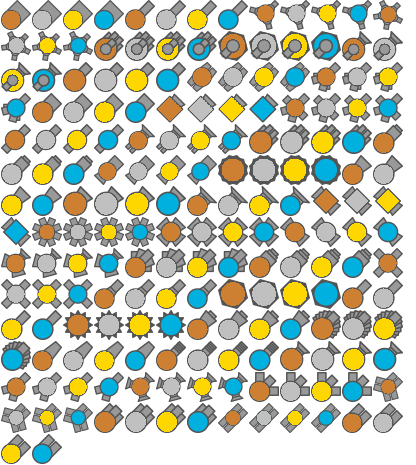
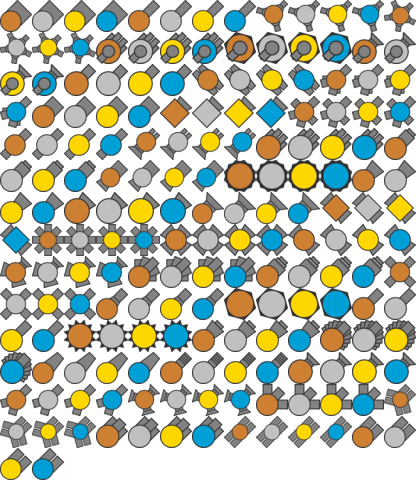
updated tanks.png

diff --git a/sunknightsapp/static/sunknightsapp/css/tanks.css b/sunknightsapp/static/sunknightsapp/css/tanks.css
@@ -39,187 +39,187 @@
 .twin-tier1, .twin-tier2, .twin-tier3, .twin
 { display: inline-block; background: url('../image/tanks.png') no-repeat; overflow: hidden; text-indent: -9999px; text-align: left; }
 
-.annihilator-tier1 { background-position: -1px -0px; width: 30px; height: 30px; }
-.annihilator-tier2 { background-position: -32px -0px; width: 30px; height: 30px; }
-.annihilator-tier3 { background-position: -63px -0px; width: 30px; height: 30px; }
-.annihilator { background-position: -94px -0px; width: 30px; height: 30px; }
-.assassin-tier1 { background-position: -125px -0px; width: 30px; height: 30px; }
-.assassin-tier2 { background-position: -156px -0px; width: 30px; height: 30px; }
-.assassin-tier3 { background-position: -187px -0px; width: 30px; height: 30px; }
-.assassin { background-position: -218px -0px; width: 30px; height: 30px; }
-.auto-3-tier1 { background-position: -249px -0px; width: 30px; height: 30px; }
-.auto-3-tier2 { background-position: -280px -0px; width: 30px; height: 30px; }
-.auto-3-tier3 { background-position: -311px -0px; width: 30px; height: 30px; }
-.auto-3 { background-position: -342px -0px; width: 30px; height: 30px; }
-.auto-5-tier1 { background-position: -373px -0px; width: 30px; height: 30px; }
-.auto-5-tier2 { background-position: -1px -31px; width: 30px; height: 30px; }
-.auto-5-tier3 { background-position: -32px -31px; width: 30px; height: 30px; }
-.auto-5 { background-position: -63px -31px; width: 30px; height: 30px; }
-.auto-gunner-tier1 { background-position: -94px -31px; width: 30px; height: 30px; }
-.auto-gunner-tier2 { background-position: -125px -31px; width: 30px; height: 30px; }
-.auto-gunner-tier3 { background-position: -156px -31px; width: 30px; height: 30px; }
-.auto-gunner { background-position: -187px -31px; width: 30px; height: 30px; }
-.auto-smasher-tier1 { background-position: -218px -31px; width: 30px; height: 30px; }
-.auto-smasher-tier2 { background-position: -249px -31px; width: 30px; height: 30px; }
-.auto-smasher-tier3 { background-position: -280px -31px; width: 30px; height: 30px; }
-.auto-smasher { background-position: -311px -31px; width: 30px; height: 30px; }
-.auto-trapper-tier1 { background-position: -342px -31px; width: 30px; height: 30px; }
-.auto-trapper-tier2 { background-position: -373px -31px; width: 30px; height: 30px; }
-.auto-trapper-tier3 { background-position: -1px -62px; width: 30px; height: 30px; }
-.auto-trapper { background-position: -32px -62px; width: 30px; height: 30px; }
-.basic-tank-tier1 { background-position: -63px -62px; width: 30px; height: 30px; }
-.basic-tank-tier2 { background-position: -94px -62px; width: 30px; height: 30px; }
-.basic-tank-tier3 { background-position: -125px -62px; width: 30px; height: 30px; }
-.basic-tank { background-position: -156px -62px; width: 30px; height: 30px; }
-.battleship-tier1 { background-position: -187px -62px; width: 30px; height: 30px; }
-.battleship-tier2 { background-position: -218px -62px; width: 30px; height: 30px; }
-.battleship-tier3 { background-position: -249px -62px; width: 30px; height: 30px; }
-.battleship { background-position: -280px -62px; width: 30px; height: 30px; }
-.booster-tier1 { background-position: -311px -62px; width: 30px; height: 30px; }
-.booster-tier2 { background-position: -342px -62px; width: 30px; height: 30px; }
-.booster-tier3 { background-position: -373px -62px; width: 30px; height: 30px; }
-.booster { background-position: -1px -93px; width: 30px; height: 30px; }
-.destroyer-tier1 { background-position: -32px -93px; width: 30px; height: 30px; }
-.destroyer-tier2 { background-position: -63px -93px; width: 30px; height: 30px; }
-.destroyer-tier3 { background-position: -94px -93px; width: 30px; height: 30px; }
-.destroyer { background-position: -125px -93px; width: 30px; height: 30px; }
-.factory-tier1 { background-position: -156px -93px; width: 30px; height: 30px; }
-.factory-tier2 { background-position: -187px -93px; width: 30px; height: 30px; }
-.factory-tier3 { background-position: -218px -93px; width: 30px; height: 30px; }
-.factory { background-position: -249px -93px; width: 30px; height: 30px; }
-.fighter-tier1 { background-position: -280px -93px; width: 30px; height: 30px; }
-.fighter-tier2 { background-position: -311px -93px; width: 30px; height: 30px; }
-.fighter-tier3 { background-position: -342px -93px; width: 30px; height: 30px; }
-.fighter { background-position: -373px -93px; width: 30px; height: 30px; }
-.flank-guard-tier1 { background-position: -1px -124px; width: 30px; height: 30px; }
-.flank-guard-tier2 { background-position: -32px -124px; width: 30px; height: 30px; }
-.flank-guard-tier3 { background-position: -63px -124px; width: 30px; height: 30px; }
-.flank-guard { background-position: -94px -124px; width: 30px; height: 30px; }
-.gunner-trapper-tier1 { background-position: -125px -124px; width: 30px; height: 30px; }
-.gunner-trapper-tier2 { background-position: -156px -124px; width: 30px; height: 30px; }
-.gunner-trapper-tier3 { background-position: -187px -124px; width: 30px; height: 30px; }
-.gunner-trapper { background-position: -218px -124px; width: 30px; height: 30px; }
-.gunner-tier1 { background-position: -249px -124px; width: 30px; height: 30px; }
-.gunner-tier2 { background-position: -280px -124px; width: 30px; height: 30px; }
-.gunner-tier3 { background-position: -311px -124px; width: 30px; height: 30px; }
-.gunner { background-position: -342px -124px; width: 30px; height: 30px; }
-.hunter-tier1 { background-position: -373px -124px; width: 30px; height: 30px; }
-.hunter-tier2 { background-position: -1px -155px; width: 30px; height: 30px; }
-.hunter-tier3 { background-position: -32px -155px; width: 30px; height: 30px; }
-.hunter { background-position: -63px -155px; width: 30px; height: 30px; }
-.hybrid-tier1 { background-position: -94px -155px; width: 30px; height: 30px; }
-.hybrid-tier2 { background-position: -125px -155px; width: 30px; height: 30px; }
-.hybrid-tier3 { background-position: -156px -155px; width: 30px; height: 30px; }
-.hybrid { background-position: -187px -155px; width: 30px; height: 30px; }
-.landmine-tier1 { background-position: -218px -155px; width: 30px; height: 30px; }
-.landmine-tier2 { background-position: -249px -155px; width: 30px; height: 30px; }
-.landmine-tier3 { background-position: -280px -155px; width: 30px; height: 30px; }
-.landmine { background-position: -311px -155px; width: 30px; height: 30px; }
-.machine-gun-tier1 { background-position: -342px -155px; width: 30px; height: 30px; }
-.machine-gun-tier2 { background-position: -373px -155px; width: 30px; height: 30px; }
-.machine-gun-tier3 { background-position: -1px -186px; width: 30px; height: 30px; }
-.machine-gun { background-position: -32px -186px; width: 30px; height: 30px; }
-.manager-tier1 { background-position: -63px -186px; width: 30px; height: 30px; }
-.manager-tier2 { background-position: -94px -186px; width: 30px; height: 30px; }
-.manager-tier3 { background-position: -125px -186px; width: 30px; height: 30px; }
-.manager { background-position: -156px -186px; width: 30px; height: 30px; }
-.mega-trapper-tier1 { background-position: -187px -186px; width: 30px; height: 30px; }
-.mega-trapper-tier2 { background-position: -218px -186px; width: 30px; height: 30px; }
-.mega-trapper-tier3 { background-position: -249px -186px; width: 30px; height: 30px; }
-.mega-trapper { background-position: -280px -186px; width: 30px; height: 30px; }
-.necromancer-tier1 { background-position: -311px -186px; width: 30px; height: 30px; }
-.necromancer-tier2 { background-position: -342px -186px; width: 30px; height: 30px; }
-.necromancer-tier3 { background-position: -373px -186px; width: 30px; height: 30px; }
-.necromancer { background-position: -1px -217px; width: 30px; height: 30px; }
-.octo-tank-tier1 { background-position: -32px -217px; width: 30px; height: 30px; }
-.octo-tank-tier2 { background-position: -63px -217px; width: 30px; height: 30px; }
-.octo-tank-tier3 { background-position: -94px -217px; width: 30px; height: 30px; }
-.octo-tank { background-position: -125px -217px; width: 30px; height: 30px; }
-.overlord-tier1 { background-position: -156px -217px; width: 30px; height: 30px; }
-.overlord-tier2 { background-position: -187px -217px; width: 30px; height: 30px; }
-.overlord-tier3 { background-position: -218px -217px; width: 30px; height: 30px; }
-.overlord { background-position: -249px -217px; width: 30px; height: 30px; }
-.overseer-tier1 { background-position: -280px -217px; width: 30px; height: 30px; }
-.overseer-tier2 { background-position: -311px -217px; width: 30px; height: 30px; }
-.overseer-tier3 { background-position: -342px -217px; width: 30px; height: 30px; }
-.overseer { background-position: -373px -217px; width: 30px; height: 30px; }
-.overtrapper-tier1 { background-position: -1px -248px; width: 30px; height: 30px; }
-.overtrapper-tier2 { background-position: -32px -248px; width: 30px; height: 30px; }
-.overtrapper-tier3 { background-position: -63px -248px; width: 30px; height: 30px; }
-.overtrapper { background-position: -94px -248px; width: 30px; height: 30px; }
-.penta-shot-tier1 { background-position: -125px -248px; width: 30px; height: 30px; }
-.penta-shot-tier2 { background-position: -156px -248px; width: 30px; height: 30px; }
-.penta-shot-tier3 { background-position: -187px -248px; width: 30px; height: 30px; }
-.penta-shot { background-position: -218px -248px; width: 30px; height: 30px; }
-.predator-tier1 { background-position: -249px -248px; width: 30px; height: 30px; }
-.predator-tier2 { background-position: -280px -248px; width: 30px; height: 30px; }
-.predator-tier3 { background-position: -311px -248px; width: 30px; height: 30px; }
-.predator { background-position: -342px -248px; width: 30px; height: 30px; }
-.quad-tank-tier1 { background-position: -373px -248px; width: 30px; height: 30px; }
-.quad-tank-tier2 { background-position: -1px -279px; width: 30px; height: 30px; }
-.quad-tank-tier3 { background-position: -32px -279px; width: 30px; height: 30px; }
-.quad-tank { background-position: -63px -279px; width: 30px; height: 30px; }
-.ranger-tier1 { background-position: -94px -279px; width: 30px; height: 30px; }
-.ranger-tier2 { background-position: -125px -279px; width: 30px; height: 30px; }
-.ranger-tier3 { background-position: -156px -279px; width: 30px; height: 30px; }
-.ranger { background-position: -187px -279px; width: 30px; height: 30px; }
-.smasher-tier1 { background-position: -218px -279px; width: 30px; height: 30px; }
-.smasher-tier2 { background-position: -249px -279px; width: 30px; height: 30px; }
-.smasher-tier3 { background-position: -280px -279px; width: 30px; height: 30px; }
-.smasher { background-position: -311px -279px; width: 30px; height: 30px; }
-.sniper-tier1 { background-position: -342px -279px; width: 30px; height: 30px; }
-.sniper-tier2 { background-position: -373px -279px; width: 30px; height: 30px; }
-.sniper-tier3 { background-position: -1px -310px; width: 30px; height: 30px; }
-.sniper { background-position: -32px -310px; width: 30px; height: 30px; }
-.spike-tier1 { background-position: -63px -310px; width: 30px; height: 30px; }
-.spike-tier2 { background-position: -94px -310px; width: 30px; height: 30px; }
-.spike-tier3 { background-position: -125px -310px; width: 30px; height: 30px; }
-.spike { background-position: -156px -310px; width: 30px; height: 30px; }
-.sprayer-tier1 { background-position: -187px -310px; width: 30px; height: 30px; }
-.sprayer-tier2 { background-position: -218px -310px; width: 30px; height: 30px; }
-.sprayer-tier3 { background-position: -249px -310px; width: 30px; height: 30px; }
-.sprayer { background-position: -280px -310px; width: 30px; height: 30px; }
-.spread-shot-tier1 { background-position: -311px -310px; width: 30px; height: 30px; }
-.spread-shot-tier2 { background-position: -342px -310px; width: 30px; height: 30px; }
-.spread-shot-tier3 { background-position: -373px -310px; width: 30px; height: 30px; }
-.spread-shot { background-position: -1px -341px; width: 30px; height: 30px; }
-.stalker-tier1 { background-position: -32px -341px; width: 30px; height: 30px; }
-.stalker-tier2 { background-position: -63px -341px; width: 30px; height: 30px; }
-.stalker-tier3 { background-position: -94px -341px; width: 30px; height: 30px; }
-.stalker { background-position: -125px -341px; width: 30px; height: 30px; }
-.streamliner-tier1 { background-position: -156px -341px; width: 30px; height: 30px; }
-.streamliner-tier2 { background-position: -187px -341px; width: 30px; height: 30px; }
-.streamliner-tier3 { background-position: -218px -341px; width: 30px; height: 30px; }
-.streamliner { background-position: -249px -341px; width: 30px; height: 30px; }
-.trapper-tier1 { background-position: -280px -341px; width: 30px; height: 30px; }
-.trapper-tier2 { background-position: -311px -341px; width: 30px; height: 30px; }
-.trapper-tier3 { background-position: -342px -341px; width: 30px; height: 30px; }
-.trapper { background-position: -373px -341px; width: 30px; height: 30px; }
-.tri-angle-tier1 { background-position: -1px -372px; width: 30px; height: 30px; }
-.tri-angle-tier2 { background-position: -32px -372px; width: 30px; height: 30px; }
-.tri-angle-tier3 { background-position: -63px -372px; width: 30px; height: 30px; }
-.tri-angle { background-position: -94px -372px; width: 30px; height: 30px; }
-.tri-trapper-tier1 { background-position: -125px -372px; width: 30px; height: 30px; }
-.tri-trapper-tier2 { background-position: -156px -372px; width: 30px; height: 30px; }
-.tri-trapper-tier3 { background-position: -187px -372px; width: 30px; height: 30px; }
-.tri-trapper { background-position: -218px -372px; width: 30px; height: 30px; }
-.triple-shot-tier1 { background-position: -249px -372px; width: 30px; height: 30px; }
-.triple-shot-tier2 { background-position: -280px -372px; width: 30px; height: 30px; }
-.triple-shot-tier3 { background-position: -311px -372px; width: 30px; height: 30px; }
-.triple-shot { background-position: -342px -372px; width: 30px; height: 30px; }
-.triple-twin-tier1 { background-position: -373px -372px; width: 30px; height: 30px; }
-.triple-twin-tier2 { background-position: -1px -403px; width: 30px; height: 30px; }
-.triple-twin-tier3 { background-position: -32px -403px; width: 30px; height: 30px; }
-.triple-twin { background-position: -63px -403px; width: 30px; height: 30px; }
-.triplet-tier1 { background-position: -94px -403px; width: 30px; height: 30px; }
-.triplet-tier2 { background-position: -125px -403px; width: 30px; height: 30px; }
-.triplet-tier3 { background-position: -156px -403px; width: 30px; height: 30px; }
-.triplet { background-position: -187px -403px; width: 30px; height: 30px; }
-.twin-flank-tier1 { background-position: -218px -403px; width: 30px; height: 30px; }
-.twin-flank-tier2 { background-position: -249px -403px; width: 30px; height: 30px; }
-.twin-flank-tier3 { background-position: -280px -403px; width: 30px; height: 30px; }
-.twin-flank { background-position: -311px -403px; width: 30px; height: 30px; }
-.twin-tier1 { background-position: -342px -403px; width: 30px; height: 30px; }
-.twin-tier2 { background-position: -373px -403px; width: 30px; height: 30px; }
-.twin-tier3 { background-position: -1px -434px; width: 30px; height: 30px; }
-.twin { background-position: -32px -434px; width: 30px; height: 30px; }
+.annihilator-tier1 { background-position: -0px -0px; width: 32px; height: 32px; }
+.annihilator-tier2 { background-position: -32px -0px; width: 32px; height: 32px; }
+.annihilator-tier3 { background-position: -64px -0px; width: 32px; height: 32px; }
+.annihilator { background-position: -96px -0px; width: 32px; height: 32px; }
+.assassin-tier1 { background-position: -128px -0px; width: 32px; height: 32px; }
+.assassin-tier2 { background-position: -160px -0px; width: 32px; height: 32px; }
+.assassin-tier3 { background-position: -192px -0px; width: 32px; height: 32px; }
+.assassin { background-position: -224px -0px; width: 32px; height: 32px; }
+.auto-3-tier1 { background-position: -256px -0px; width: 32px; height: 32px; }
+.auto-3-tier2 { background-position: -288px -0px; width: 32px; height: 32px; }
+.auto-3-tier3 { background-position: -320px -0px; width: 32px; height: 32px; }
+.auto-3 { background-position: -352px -0px; width: 32px; height: 32px; }
+.auto-5-tier1 { background-position: -384px -0px; width: 32px; height: 32px; }
+.auto-5-tier2 { background-position: -0px -32px; width: 32px; height: 32px; }
+.auto-5-tier3 { background-position: -32px -32px; width: 32px; height: 32px; }
+.auto-5 { background-position: -64px -32px; width: 32px; height: 32px; }
+.auto-gunner-tier1 { background-position: -96px -32px; width: 32px; height: 32px; }
+.auto-gunner-tier2 { background-position: -128px -32px; width: 32px; height: 32px; }
+.auto-gunner-tier3 { background-position: -160px -32px; width: 32px; height: 32px; }
+.auto-gunner { background-position: -192px -32px; width: 32px; height: 32px; }
+.auto-smasher-tier1 { background-position: -224px -32px; width: 32px; height: 32px; }
+.auto-smasher-tier2 { background-position: -256px -32px; width: 32px; height: 32px; }
+.auto-smasher-tier3 { background-position: -288px -32px; width: 32px; height: 32px; }
+.auto-smasher { background-position: -320px -32px; width: 32px; height: 32px; }
+.auto-trapper-tier1 { background-position: -352px -32px; width: 32px; height: 32px; }
+.auto-trapper-tier2 { background-position: -384px -32px; width: 32px; height: 32px; }
+.auto-trapper-tier3 { background-position: -0px -64px; width: 32px; height: 32px; }
+.auto-trapper { background-position: -32px -64px; width: 32px; height: 32px; }
+.basic-tank-tier1 { background-position: -64px -64px; width: 32px; height: 32px; }
+.basic-tank-tier2 { background-position: -96px -64px; width: 32px; height: 32px; }
+.basic-tank-tier3 { background-position: -128px -64px; width: 32px; height: 32px; }
+.basic-tank { background-position: -160px -64px; width: 32px; height: 32px; }
+.battleship-tier1 { background-position: -192px -64px; width: 32px; height: 32px; }
+.battleship-tier2 { background-position: -224px -64px; width: 32px; height: 32px; }
+.battleship-tier3 { background-position: -256px -64px; width: 32px; height: 32px; }
+.battleship { background-position: -288px -64px; width: 32px; height: 32px; }
+.booster-tier1 { background-position: -320px -64px; width: 32px; height: 32px; }
+.booster-tier2 { background-position: -352px -64px; width: 32px; height: 32px; }
+.booster-tier3 { background-position: -384px -64px; width: 32px; height: 32px; }
+.booster { background-position: -0px -96px; width: 32px; height: 32px; }
+.destroyer-tier1 { background-position: -32px -96px; width: 32px; height: 32px; }
+.destroyer-tier2 { background-position: -64px -96px; width: 32px; height: 32px; }
+.destroyer-tier3 { background-position: -96px -96px; width: 32px; height: 32px; }
+.destroyer { background-position: -128px -96px; width: 32px; height: 32px; }
+.factory-tier1 { background-position: -160px -96px; width: 32px; height: 32px; }
+.factory-tier2 { background-position: -192px -96px; width: 32px; height: 32px; }
+.factory-tier3 { background-position: -224px -96px; width: 32px; height: 32px; }
+.factory { background-position: -256px -96px; width: 32px; height: 32px; }
+.fighter-tier1 { background-position: -288px -96px; width: 32px; height: 32px; }
+.fighter-tier2 { background-position: -320px -96px; width: 32px; height: 32px; }
+.fighter-tier3 { background-position: -352px -96px; width: 32px; height: 32px; }
+.fighter { background-position: -384px -96px; width: 32px; height: 32px; }
+.flank-guard-tier1 { background-position: -0px -128px; width: 32px; height: 32px; }
+.flank-guard-tier2 { background-position: -32px -128px; width: 32px; height: 32px; }
+.flank-guard-tier3 { background-position: -64px -128px; width: 32px; height: 32px; }
+.flank-guard { background-position: -96px -128px; width: 32px; height: 32px; }
+.gunner-trapper-tier1 { background-position: -128px -128px; width: 32px; height: 32px; }
+.gunner-trapper-tier2 { background-position: -160px -128px; width: 32px; height: 32px; }
+.gunner-trapper-tier3 { background-position: -192px -128px; width: 32px; height: 32px; }
+.gunner-trapper { background-position: -224px -128px; width: 32px; height: 32px; }
+.gunner-tier1 { background-position: -256px -128px; width: 32px; height: 32px; }
+.gunner-tier2 { background-position: -288px -128px; width: 32px; height: 32px; }
+.gunner-tier3 { background-position: -320px -128px; width: 32px; height: 32px; }
+.gunner { background-position: -352px -128px; width: 32px; height: 32px; }
+.hunter-tier1 { background-position: -384px -128px; width: 32px; height: 32px; }
+.hunter-tier2 { background-position: -0px -160px; width: 32px; height: 32px; }
+.hunter-tier3 { background-position: -32px -160px; width: 32px; height: 32px; }
+.hunter { background-position: -64px -160px; width: 32px; height: 32px; }
+.hybrid-tier1 { background-position: -96px -160px; width: 32px; height: 32px; }
+.hybrid-tier2 { background-position: -128px -160px; width: 32px; height: 32px; }
+.hybrid-tier3 { background-position: -160px -160px; width: 32px; height: 32px; }
+.hybrid { background-position: -192px -160px; width: 32px; height: 32px; }
+.landmine-tier1 { background-position: -224px -160px; width: 32px; height: 32px; }
+.landmine-tier2 { background-position: -256px -160px; width: 32px; height: 32px; }
+.landmine-tier3 { background-position: -288px -160px; width: 32px; height: 32px; }
+.landmine { background-position: -320px -160px; width: 32px; height: 32px; }
+.machine-gun-tier1 { background-position: -352px -160px; width: 32px; height: 32px; }
+.machine-gun-tier2 { background-position: -384px -160px; width: 32px; height: 32px; }
+.machine-gun-tier3 { background-position: -0px -192px; width: 32px; height: 32px; }
+.machine-gun { background-position: -32px -192px; width: 32px; height: 32px; }
+.manager-tier1 { background-position: -64px -192px; width: 32px; height: 32px; }
+.manager-tier2 { background-position: -96px -192px; width: 32px; height: 32px; }
+.manager-tier3 { background-position: -128px -192px; width: 32px; height: 32px; }
+.manager { background-position: -160px -192px; width: 32px; height: 32px; }
+.mega-trapper-tier1 { background-position: -192px -192px; width: 32px; height: 32px; }
+.mega-trapper-tier2 { background-position: -224px -192px; width: 32px; height: 32px; }
+.mega-trapper-tier3 { background-position: -256px -192px; width: 32px; height: 32px; }
+.mega-trapper { background-position: -288px -192px; width: 32px; height: 32px; }
+.necromancer-tier1 { background-position: -320px -192px; width: 32px; height: 32px; }
+.necromancer-tier2 { background-position: -352px -192px; width: 32px; height: 32px; }
+.necromancer-tier3 { background-position: -384px -192px; width: 32px; height: 32px; }
+.necromancer { background-position: -0px -224px; width: 32px; height: 32px; }
+.octo-tank-tier1 { background-position: -32px -224px; width: 32px; height: 32px; }
+.octo-tank-tier2 { background-position: -64px -224px; width: 32px; height: 32px; }
+.octo-tank-tier3 { background-position: -96px -224px; width: 32px; height: 32px; }
+.octo-tank { background-position: -128px -224px; width: 32px; height: 32px; }
+.overlord-tier1 { background-position: -160px -224px; width: 32px; height: 32px; }
+.overlord-tier2 { background-position: -192px -224px; width: 32px; height: 32px; }
+.overlord-tier3 { background-position: -224px -224px; width: 32px; height: 32px; }
+.overlord { background-position: -256px -224px; width: 32px; height: 32px; }
+.overseer-tier1 { background-position: -288px -224px; width: 32px; height: 32px; }
+.overseer-tier2 { background-position: -320px -224px; width: 32px; height: 32px; }
+.overseer-tier3 { background-position: -352px -224px; width: 32px; height: 32px; }
+.overseer { background-position: -384px -224px; width: 32px; height: 32px; }
+.overtrapper-tier1 { background-position: -0px -256px; width: 32px; height: 32px; }
+.overtrapper-tier2 { background-position: -32px -256px; width: 32px; height: 32px; }
+.overtrapper-tier3 { background-position: -64px -256px; width: 32px; height: 32px; }
+.overtrapper { background-position: -96px -256px; width: 32px; height: 32px; }
+.penta-shot-tier1 { background-position: -128px -256px; width: 32px; height: 32px; }
+.penta-shot-tier2 { background-position: -160px -256px; width: 32px; height: 32px; }
+.penta-shot-tier3 { background-position: -192px -256px; width: 32px; height: 32px; }
+.penta-shot { background-position: -224px -256px; width: 32px; height: 32px; }
+.predator-tier1 { background-position: -256px -256px; width: 32px; height: 32px; }
+.predator-tier2 { background-position: -288px -256px; width: 32px; height: 32px; }
+.predator-tier3 { background-position: -320px -256px; width: 32px; height: 32px; }
+.predator { background-position: -352px -256px; width: 32px; height: 32px; }
+.quad-tank-tier1 { background-position: -384px -256px; width: 32px; height: 32px; }
+.quad-tank-tier2 { background-position: -0px -288px; width: 32px; height: 32px; }
+.quad-tank-tier3 { background-position: -32px -288px; width: 32px; height: 32px; }
+.quad-tank { background-position: -64px -288px; width: 32px; height: 32px; }
+.ranger-tier1 { background-position: -96px -288px; width: 32px; height: 32px; }
+.ranger-tier2 { background-position: -128px -288px; width: 32px; height: 32px; }
+.ranger-tier3 { background-position: -160px -288px; width: 32px; height: 32px; }
+.ranger { background-position: -192px -288px; width: 32px; height: 32px; }
+.smasher-tier1 { background-position: -224px -288px; width: 32px; height: 32px; }
+.smasher-tier2 { background-position: -256px -288px; width: 32px; height: 32px; }
+.smasher-tier3 { background-position: -288px -288px; width: 32px; height: 32px; }
+.smasher { background-position: -320px -288px; width: 32px; height: 32px; }
+.sniper-tier1 { background-position: -352px -288px; width: 32px; height: 32px; }
+.sniper-tier2 { background-position: -384px -288px; width: 32px; height: 32px; }
+.sniper-tier3 { background-position: -0px -320px; width: 32px; height: 32px; }
+.sniper { background-position: -32px -320px; width: 32px; height: 32px; }
+.spike-tier1 { background-position: -64px -320px; width: 32px; height: 32px; }
+.spike-tier2 { background-position: -96px -320px; width: 32px; height: 32px; }
+.spike-tier3 { background-position: -128px -320px; width: 32px; height: 32px; }
+.spike { background-position: -160px -320px; width: 32px; height: 32px; }
+.sprayer-tier1 { background-position: -192px -320px; width: 32px; height: 32px; }
+.sprayer-tier2 { background-position: -224px -320px; width: 32px; height: 32px; }
+.sprayer-tier3 { background-position: -256px -320px; width: 32px; height: 32px; }
+.sprayer { background-position: -288px -320px; width: 32px; height: 32px; }
+.spread-shot-tier1 { background-position: -320px -320px; width: 32px; height: 32px; }
+.spread-shot-tier2 { background-position: -352px -320px; width: 32px; height: 32px; }
+.spread-shot-tier3 { background-position: -384px -320px; width: 32px; height: 32px; }
+.spread-shot { background-position: -0px -352px; width: 32px; height: 32px; }
+.stalker-tier1 { background-position: -32px -352px; width: 32px; height: 32px; }
+.stalker-tier2 { background-position: -64px -352px; width: 32px; height: 32px; }
+.stalker-tier3 { background-position: -96px -352px; width: 32px; height: 32px; }
+.stalker { background-position: -128px -352px; width: 32px; height: 32px; }
+.streamliner-tier1 { background-position: -160px -352px; width: 32px; height: 32px; }
+.streamliner-tier2 { background-position: -192px -352px; width: 32px; height: 32px; }
+.streamliner-tier3 { background-position: -224px -352px; width: 32px; height: 32px; }
+.streamliner { background-position: -256px -352px; width: 32px; height: 32px; }
+.trapper-tier1 { background-position: -288px -352px; width: 32px; height: 32px; }
+.trapper-tier2 { background-position: -320px -352px; width: 32px; height: 32px; }
+.trapper-tier3 { background-position: -352px -352px; width: 32px; height: 32px; }
+.trapper { background-position: -384px -352px; width: 32px; height: 32px; }
+.tri-angle-tier1 { background-position: -0px -384px; width: 32px; height: 32px; }
+.tri-angle-tier2 { background-position: -32px -384px; width: 32px; height: 32px; }
+.tri-angle-tier3 { background-position: -64px -384px; width: 32px; height: 32px; }
+.tri-angle { background-position: -96px -384px; width: 32px; height: 32px; }
+.tri-trapper-tier1 { background-position: -128px -384px; width: 32px; height: 32px; }
+.tri-trapper-tier2 { background-position: -160px -384px; width: 32px; height: 32px; }
+.tri-trapper-tier3 { background-position: -192px -384px; width: 32px; height: 32px; }
+.tri-trapper { background-position: -224px -384px; width: 32px; height: 32px; }
+.triple-shot-tier1 { background-position: -256px -384px; width: 32px; height: 32px; }
+.triple-shot-tier2 { background-position: -288px -384px; width: 32px; height: 32px; }
+.triple-shot-tier3 { background-position: -320px -384px; width: 32px; height: 32px; }
+.triple-shot { background-position: -352px -384px; width: 32px; height: 32px; }
+.triple-twin-tier1 { background-position: -384px -384px; width: 32px; height: 32px; }
+.triple-twin-tier2 { background-position: -0px -416px; width: 32px; height: 32px; }
+.triple-twin-tier3 { background-position: -32px -416px; width: 32px; height: 32px; }
+.triple-twin { background-position: -64px -416px; width: 32px; height: 32px; }
+.triplet-tier1 { background-position: -96px -416px; width: 32px; height: 32px; }
+.triplet-tier2 { background-position: -128px -416px; width: 32px; height: 32px; }
+.triplet-tier3 { background-position: -160px -416px; width: 32px; height: 32px; }
+.triplet { background-position: -192px -416px; width: 32px; height: 32px; }
+.twin-flank-tier1 { background-position: -224px -416px; width: 32px; height: 32px; }
+.twin-flank-tier2 { background-position: -256px -416px; width: 32px; height: 32px; }
+.twin-flank-tier3 { background-position: -288px -416px; width: 32px; height: 32px; }
+.twin-flank { background-position: -320px -416px; width: 32px; height: 32px; }
+.twin-tier1 { background-position: -352px -416px; width: 32px; height: 32px; }
+.twin-tier2 { background-position: -384px -416px; width: 32px; height: 32px; }
+.twin-tier3 { background-position: -0px -448px; width: 32px; height: 32px; }
+.twin { background-position: -32px -448px; width: 32px; height: 32px; }
